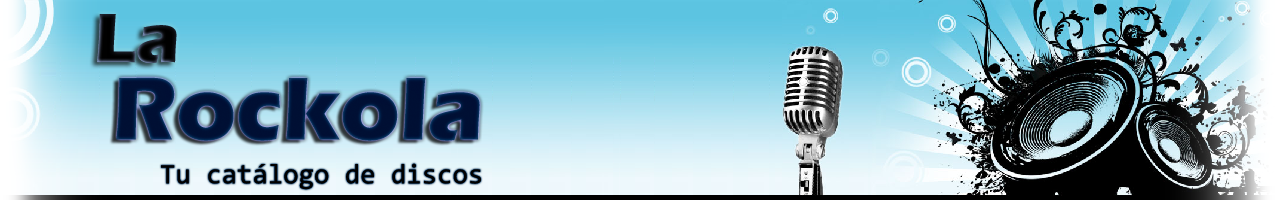
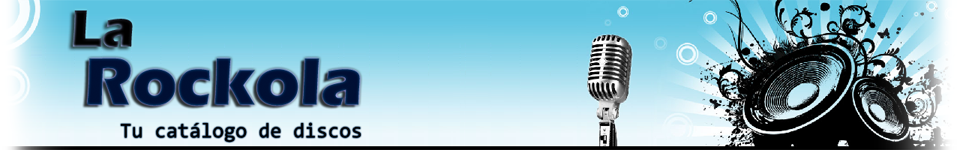
loq  tenia echo pero roto por cambair al estrucutra de carpetas sin avisar

Changed region(s): [[0.8438, 0.4533, 0.875, 0.48], [0.7812, 0.7733, 0.8125, 0.8], [0.7812, 0.72, 0.8125, 0.7467]]

diff --git a/templates/template/template.html b/templates/template/template.html
@@ -4,9 +4,9 @@
 	<meta http-equiv="Content-Type" content="text/html; charset=UTF-8" />	
     <title>{titulo}</title>
 	<link type="text/css" href="templates/template/css/custom-theme/jquery-ui-1.8.20.custom.css" rel="stylesheet" />	
-    <link rel="stylesheet" href="templates/template/css/style.css" type="text/css" media="screen" />
-	<script type="text/javascript" src="public_html/js/lib/jquery-1.7.2.min.js"></script>
-	<script type="text/javascript" src="public_html/js/lib/jquery-ui-1.8.20.custom.min.js"></script>
+    <link rel="stylesheet" href="templates/template/styles/style.css" type="text/css" media="screen" />
+	<script type="text/javascript" src="templates/template/js/jquery-1.7.2.min.js"></script>
+	<script type="text/javascript" src="templates/template/js/jquery-ui-1.8.20.custom.min.js"></script>
 	<script type="text/javascript" src="templates/template/js/script.js"></script>
 
 </head>
@@ -19,15 +19,14 @@
 					
 					
 					<!-- Accordion -->
-					<h2 class="demoHeaders">Géneros</h2>
 					<div id="accordion">
 						<div>
-							<h3><a href="#">Rock Nacional</a></h3>
+							<h3><a href="#" class="TituloGenero">Rock Nacional</a></h3>
 							<div >
-								<a href="#">Link-1</a>
-								<a href="#">Link-1</a>
-								<a href="#">Link-1</a>
-								<a href="#">Link-1</a>
+								<a href="#" class="linkGenero">Link-1</a>
+								<a href="#" class="linkGenero">Link-1</a>
+								<a href="#" class="linkGenero">Link-1</a>
+								<a href="#" class="linkGenero">Link-1</a>
 							</div>
 							
 						</div>
@@ -60,19 +59,8 @@
 				</div>
 				<div class="content">					
 					
-					
-					<!-- Tabs -->
-					<h2 class="demoHeaders">Tabs</h2>
-					<div id="tabs">
-						<ul>
-							<li><a href="#tabs-1">home</a></li>
-							<li><a href="#tabs-2">bandas</a></li>
-							<li><a href="#tabs-3">contacto</a></li>
-						</ul>
-						<div id="tabs-1">{Homecontent}</div>
-						<div id="tabs-2">{Bandascontent}</div>
-						<div id="tabs-3">{Contactcontent}</div>
-					</div>		               
+					{maincontent}
+             
 				
 				</div>
 				<div class="right">
@@ -83,15 +71,9 @@
 							<div id="buttonSearch">Search</div>
 						</div>
 					</div>
+
 					<div class="login">			
-						<h3>Access</h3>
-						<div>
-							<div>User:</div>
-							<input id="user" style="z-index: 100; position: relative" title="type &quot;a&quot;" />
-							<div>Pass:</div>
-							<input id="pass" style="z-index: 100; position: relative" title="type &quot;a&quot;" />
-							<div id="button">Login</div>
-						</div>
+						{login}	
 					</div>
 				</div>
 				<div class="Footer">

diff --git a/templates/template/css/custom-theme/jquery-ui-1.8.20.custom.css b/templates/template/css/custom-theme/jquery-ui-1.8.20.custom.css
@@ -75,7 +75,7 @@
 ----------------------------------*/
 .ui-state-highlight, .ui-widget-content .ui-state-highlight, .ui-widget-header .ui-state-highlight  {border: 1px solid #fcefa1; background: #fbf9ee url(images/ui-bg_glass_55_fbf9ee_1x400.png) 50% 50% repeat-x; color: #363636; }
 .ui-state-highlight a, .ui-widget-content .ui-state-highlight a,.ui-widget-header .ui-state-highlight a { color: #363636; }
-.ui-state-error, .ui-widget-content .ui-state-error, .ui-widget-header .ui-state-error {border: 1px solid #cd0a0a; background: #fef1ec url(images/ui-bg_inset-soft_95_fef1ec_1x100.png) 50% bottom repeat-x; color: #cd0a0a; }
+.ui-state-error, .ui-widget-content .ui-state-error, .ui-widget-header .ui-state-error {border: 1px solid #cd0a0a; background: #fef1ec url(images/ui-bg_inset-soft_95_fef1ec_1x100.png) 50% bottom repeat-x; color: #cd0a0a;width:94%!important;margin-left:3%!important;}
 .ui-state-error a, .ui-widget-content .ui-state-error a, .ui-widget-header .ui-state-error a { color: #cd0a0a; }
 .ui-state-error-text, .ui-widget-content .ui-state-error-text, .ui-widget-header .ui-state-error-text { color: #cd0a0a; }
 .ui-priority-primary, .ui-widget-content .ui-priority-primary, .ui-widget-header .ui-priority-primary { font-weight: bold; }
@@ -324,7 +324,7 @@
  */
 /* IE/Win - Fix animation bug - #4615 */
 .ui-accordion { width: 100%; }
-.ui-accordion .ui-accordion-header { cursor: pointer; position: relative; margin-top: 1px; zoom: 1; }
+.ui-accordion .ui-accordion-header { font-size: 14px; cursor: pointer; position: relative; margin-top: 1px; zoom: 1; }
 .ui-accordion .ui-accordion-li-fix { display: inline; }
 .ui-accordion .ui-accordion-header-active { border-bottom: 0 !important; }
 .ui-accordion .ui-accordion-header a { display: block; font-size: 1em; padding: .5em .5em .5em .7em; }

diff --git a/templates/template/css/style.css b/templates/template/css/style.css
@@ -1,20 +1,21 @@
-
+body{ background-color:#F6F6F6;}
 .Sheet
 {
+
 	position:relative;
 	z-index:0;
 	margin:0 auto;
-	width: 1280px;
+	width: 960px;
 	min-width:51px;
 	min-height:51px;
 }
 
 .main
 {
-	padding-top: 200px;
+	padding-top: 150px;
 	position:relative;
 	z-index:0;
-	width: 1280px;
+	width: 960px;
 	min-width:51px;
 	min-height:51px;
 }
@@ -30,7 +31,7 @@
 	float:left;
 	position:relative;
 	z-index:0;
-	width: 880px;
+	width: 560px;
 	
 }
 .right
@@ -38,15 +39,15 @@
 	float:left;
 	position:relative;
 	z-index:0;
-	width: 200px;
+	width: 180px;
 	
 }
+
 .login
 {
 	
 	display:block;
 	text-align: center;
-	height: 140px;
 	width: 180px;
 	box-shadow: 4px 4px 4px #666;
 	-moz-box-shadow: 4px 4px 4px #666;
@@ -55,6 +56,11 @@
 
 	z-index:1;
 
+}
+#mensajeError
+{
+	padding-bottom:5px;
+	display:none;
 }
 .search
 {
@@ -83,8 +89,8 @@ div.Header-png
 	position: absolute;
 	top: 0;
 	left: 0;
-	width: 1280px;
-	height: 200px;
+	width: 960px;
+	height: 150px;
 	background-image: url('../images/HeaderRockola.png');
 	background-repeat: no-repeat;
 	background-position: left top;
@@ -97,4 +103,19 @@ body{ font: 62.5% "Trebuchet MS", sans-serif;}
 ul#icons {margin: 0; padding: 0;}
 ul#icons li {position: relative; cursor: pointer; float: left;  list-style: none;}
 ul#icons span.ui-icon {float: left; margin: 0;}
+.TituloGenero{
+font-family: Arial, Helvetica, sans-serif; 
+font-weight: bold;
+display: block;
+}
+.linkGenero {
+border-top: 0; position: relative; 
+top: 1px; overflow: auto; display: none; zoom: 1;
+text-decoration: none;
+font-family: Arial, Helvetica, sans-serif; 
+font-size: 14px;
+display: block;
+font-weight: normal;
+}
 
+.linkGenero:hover {color: #6bace6;font-weight: bold;}

diff --git a/templates/template/js/script.js b/templates/template/js/script.js
@@ -1,4 +1,25 @@
+
 $(function(){
+
+				
+				$(".submit_btn").click(function() {  
+				
+					//llamo al php para q me registre la sesion
+					var user = $("input#user").val();  
+					var pass = $("input#pass").val();
+				
+					if ((user=="admin")&&(pass=="admin")){
+						$('#mensajeError').hide("normal");
+
+					}
+					else{
+						$('#mensajeError').show("normal");
+						return false; 
+					}
+					// validate and process form here  
+				  }); 
+				  
+
 
 				// Tabs
 				$('#tabs').tabs();
@@ -12,6 +33,11 @@ $(function(){
 					      primary: 'ui-icon ui-icon-key',
 					   }
 					});
+				$("#buttonLogout").button({
+				   icons: {
+					  primary: 'ui-icon ui-icon-circle-close',
+				   }
+				});
 				$("#buttonSearch").button({
 					   icons: {
 					      primary: 'ui-icon ui-icon-search',
@@ -68,3 +94,4 @@ $(function(){
 				);
 */
 			});
+			

diff --git a/public_html/contents/login.html b/public_html/contents/login.html
@@ -1,0 +1,18 @@
+<h3>Access</h3>
+<div style="padding-bottom:10px;">
+	<form name="myform" action="login.php">
+		<div>User:</div>
+		<input type='text' name='user' id="user" style="z-index: 100; position: relative" title="usuario" />
+		<div>Pass:</div>
+		<input type='password' name='pass' id="pass" style="z-index: 100; position: relative" title="password" />
+		<input type="submit" class="submit_btn" name="submit" id="button" value="Login" />
+	</form>
+</div>
+<div id="mensajeError">
+	<div class="ui-widget" style="padding: 10!important">
+		<div class="ui-state-error ui-corner-all" style="width:100%">
+			<p><span class="ui-icon ui-icon-alert" style="float: left; margin-right: .3em;"></span>
+			<strong>Error:</strong> Usuario/password incorrectos.</p>
+		</div>
+	</div>
+</div>

diff --git a/public_html/contents/admin.html b/public_html/contents/admin.html
@@ -1,0 +1,17 @@
+<div>
+	<!-- Tabs -->
+	<div id="tabs">
+		<ul>
+			<li><a href="#tabs-1">Agregar item</a></li>
+			<li><a href="#tabs-2">Modificar item</a></li>
+			<li><a href="#tabs-3">Eliminar item</a></li>
+			<li><a href="#tabs-4">Configurar inicio</a></li>
+			<li><a href="#tabs-5">Realizar backup</a></li>
+		</ul>
+		<div id="tabs-1">{add}</div>
+		<div id="tabs-2">{edit}</div>
+		<div id="tabs-3">{delete}</div>
+		<div id="tabs-4">{config}</div>
+		<div id="tabs-5">{backup}</div>
+	</div>	
+</div>

diff --git a/public_html/contents/add.html b/public_html/contents/add.html
@@ -1,0 +1,8 @@
+<div>
+	<p>En esta pagina vas a ver zarpadas bandas</p>
+	<p>bla bla blabla bla blabla bla blabla bla blabla bla blabla bla bla</p>
+	<p>bla bla bla bla bla bla bla bla bla bla bla bla bla bla bla bla bla bla bla bla bla</p>
+	<p>&nbsp;</p>
+	<p>bla bla bla bla bla bla bla bla bla bla bla bla</p>
+	<p>&nbsp;</p>
+</div>

diff --git a/public_html/contents/backup.html b/public_html/contents/backup.html
@@ -1,0 +1,8 @@
+<div>
+	<p>En esta pagina vas a ver zarpadas bandas</p>
+	<p>bla bla blabla bla blabla bla blabla bla blabla bla blabla bla bla</p>
+	<p>bla bla bla bla bla bla bla bla bla bla bla bla bla bla bla bla bla bla bla bla bla</p>
+	<p>&nbsp;</p>
+	<p>bla bla bla bla bla bla bla bla bla bla bla bla</p>
+	<p>&nbsp;</p>
+</div>

diff --git a/public_html/contents/config.html b/public_html/contents/config.html
@@ -1,0 +1,8 @@
+<div>
+	<p>En esta pagina vas a ver zarpadas bandas</p>
+	<p>bla bla blabla bla blabla bla blabla bla blabla bla blabla bla bla</p>
+	<p>bla bla bla bla bla bla bla bla bla bla bla bla bla bla bla bla bla bla bla bla bla</p>
+	<p>&nbsp;</p>
+	<p>bla bla bla bla bla bla bla bla bla bla bla bla</p>
+	<p>&nbsp;</p>
+</div>

diff --git a/public_html/contents/delete.html b/public_html/contents/delete.html
@@ -1,0 +1,8 @@
+<div>
+	<p>En esta pagina vas a ver zarpadas bandas</p>
+	<p>bla bla blabla bla blabla bla blabla bla blabla bla blabla bla bla</p>
+	<p>bla bla bla bla bla bla bla bla bla bla bla bla bla bla bla bla bla bla bla bla bla</p>
+	<p>&nbsp;</p>
+	<p>bla bla bla bla bla bla bla bla bla bla bla bla</p>
+	<p>&nbsp;</p>
+</div>

diff --git a/public_html/contents/edit.html b/public_html/contents/edit.html
@@ -1,0 +1,8 @@
+<div>
+	<p>En esta pagina vas a ver zarpadas bandas</p>
+	<p>bla bla blabla bla blabla bla blabla bla blabla bla blabla bla bla</p>
+	<p>bla bla bla bla bla bla bla bla bla bla bla bla bla bla bla bla bla bla bla bla bla</p>
+	<p>&nbsp;</p>
+	<p>bla bla bla bla bla bla bla bla bla bla bla bla</p>
+	<p>&nbsp;</p>
+</div>

diff --git a/public_html/contents/logout.html b/public_html/contents/logout.html
@@ -1,0 +1,4 @@
+<h3>Welcome Admin!</h3>
+<div style="padding-bottom:5px;">
+	<a href="logout.php" id="buttonLogout">Logout</a>
+</div>
